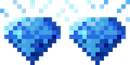
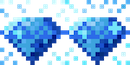
update Potenciador

diff --git a/core/src/com/dyan/magmaescape/PantallaNivel2.java b/core/src/com/dyan/magmaescape/PantallaNivel2.java
@@ -231,6 +231,20 @@ public class PantallaNivel2 extends Pantalla {
     private void probarColisiones() {
         colisionAshe();
         colisionCaja();
+        colisionPotenRapidez();
+    }
+
+    private void colisionPotenRapidez() {
+        for(Potenciador potenciador : arrPotenciadores){
+            if (olivia.sprite.getBoundingRectangle().overlaps(potenciador.sprite.getBoundingRectangle())){
+                olivia.setEstado(EstadoOlivia.CORRIENDO);
+                estadoOlivia=EstadoOlivia.CORRIENDO;
+                Gdx.app.log("Probando colision", "TOCO DIAMANTE,CORRIENDO");
+                break;
+
+            }
+        }
+
     }
 
     private void colisionCaja() {

diff --git a/core/src/com/dyan/magmaescape/Olivia.java b/core/src/com/dyan/magmaescape/Olivia.java
@@ -67,6 +67,7 @@ public class Olivia extends Objeto {
                 super.render(batch);
                 break;
 
+
             case MURIENDO:
                 timerAnimacion+=delta;
                 TextureRegion frameMorir= animacionMorir.getKeyFrame(timerAnimacion);

diff --git a/core/src/com/dyan/magmaescape/EstadoOlivia.java b/core/src/com/dyan/magmaescape/EstadoOlivia.java
@@ -6,5 +6,6 @@ public enum EstadoOlivia {
     SUBIENDO,
     MURIENDO,
     PAUSA,
-    BAJANDO
+    BAJANDO,
+    CORRIENDO
 }
